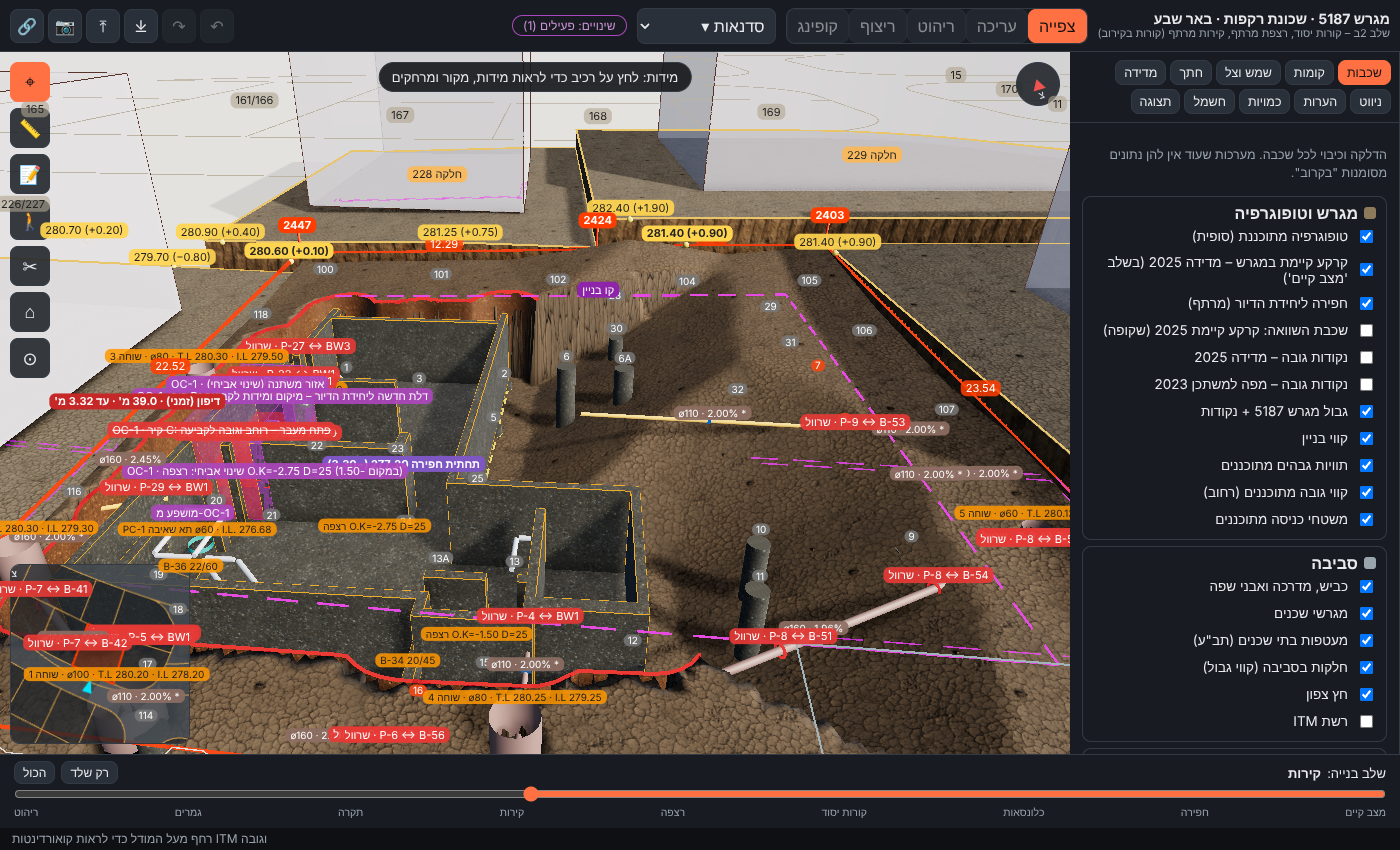
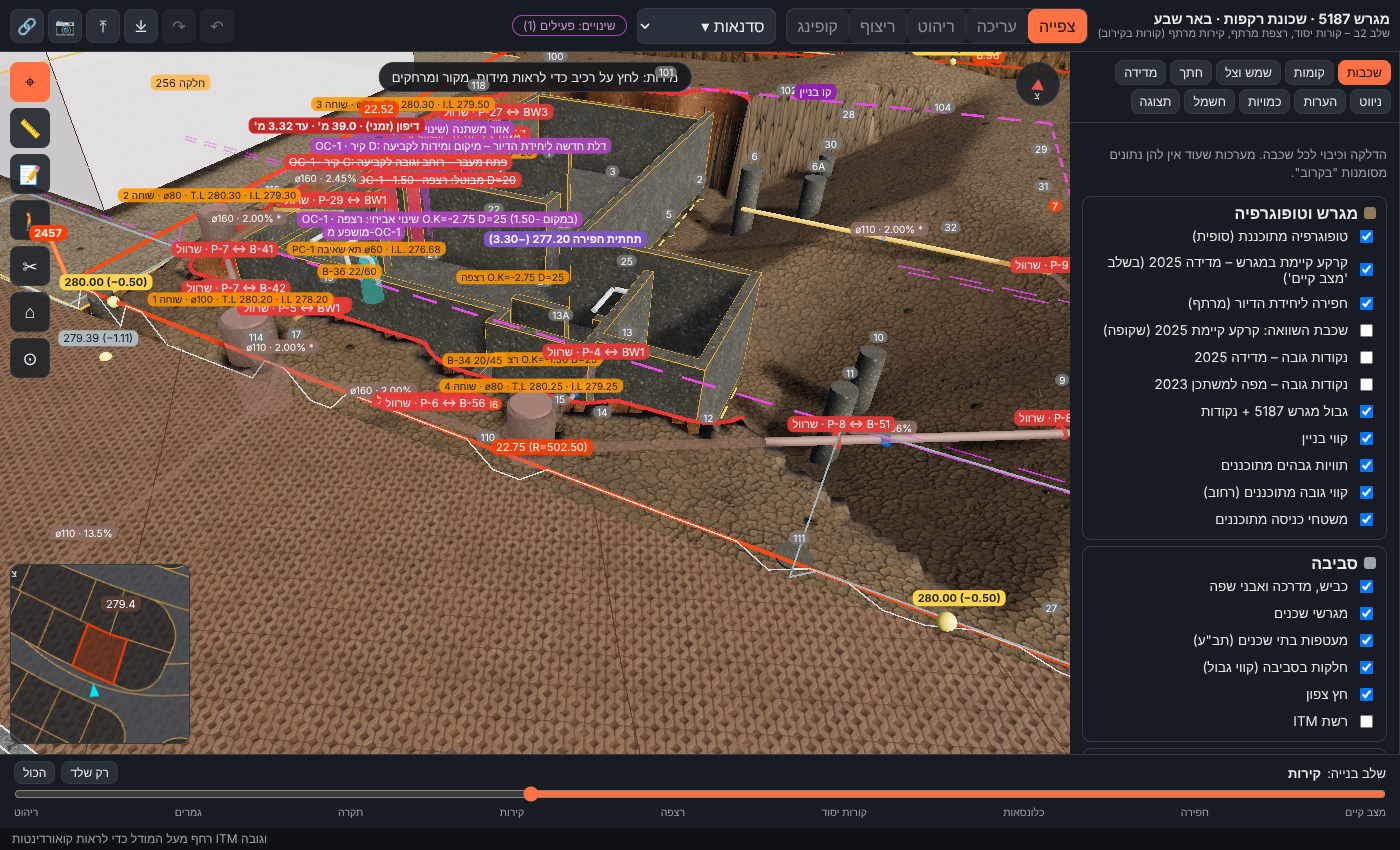
שוחות בטון (גליל + מכסה) וצנרת ביוב עם שיקוף דרך הקרקע; נקודת מבט 'ביוב: שוחות וצנרת'
Claude-Session: https://claude.ai/code/session_012mX9nwtok5Gvb7kjSQTNpc

diff --git a/js/geometry/foundations.js b/js/geometry/foundations.js
@@ -157,13 +157,27 @@ export function buildPlumbingFoundations(ctx) {
   const { data, coords, registry, scene, materials, display } = ctx;
   const P = data.plumbingFoundations; if (!P) return null;
   const D = display.plumbing;
+  // "x-ray" copy drawn on top of the soil (chambers and pipes are underground) – same tags, not pickable
+  const ghost = (g0, geos, pos, color, tags, quat) => {
+    const gg = new THREE.Group();
+    for (const geo of geos) {
+      const gm = new THREE.Mesh(geo, new THREE.MeshBasicMaterial({ color, transparent: true, opacity: D.ghostOpacity, depthTest: false, depthWrite: false }));
+      gm.position.copy(pos); if (quat) gm.quaternion.copy(quat); gm.renderOrder = 6; gm.raycast = () => {}; gg.add(gm);
+    }
+    scene.add(gg); registry.add(gg, { ...tags, stageTo: 'ceiling' }, { name: 'שיקוף', kind: 'ghost', pickable: false });
+  };
   for (const c of P.chambers) {
     const r = c.diameter_m / 2, h = c.TL - c.IL;
-    const geo = new THREE.CylinderGeometry(r, r, h, D.radialSegments, 1, true);
     const sewer = c.kind === 'sewerManhole';
-    const mat = new THREE.MeshStandardMaterial({ color: sewer ? D.sewerColor : D.chamberColor, roughness: 0.6, side: THREE.DoubleSide });
-    const m = new THREE.Mesh(geo, mat); m.position.copy(coords.toLocal(c.E, c.N, (c.TL + c.IL) / 2)); m.castShadow = true;
-    const g = new THREE.Group(); g.add(m);
+    // concrete chamber: closed cylinder of the drawn diameter from I.L to T.L, with a cover disk at T.L
+    const geo = new THREE.CylinderGeometry(r, r, h, D.radialSegments, 1, false);
+    const uv = geo.attributes.uv; for (let i = 0; i < uv.count; i++) uv.setXY(i, uv.getX(i) * 2 * Math.PI * r, uv.getY(i) * h);
+    const m = new THREE.Mesh(geo, materials.get('concrete')); m.position.copy(coords.toLocal(c.E, c.N, (c.TL + c.IL) / 2)); m.castShadow = m.receiveShadow = true;
+    const cover = new THREE.Mesh(new THREE.CylinderGeometry(r * D.coverRatio, r * D.coverRatio, D.coverThickness_m, D.radialSegments),
+      new THREE.MeshStandardMaterial({ color: sewer ? D.sewerColor : D.chamberColor, roughness: 0.5, metalness: 0.3 }));
+    cover.position.copy(coords.toLocal(c.E, c.N, c.TL + D.coverThickness_m / 2));
+    const g = new THREE.Group(); g.add(m, cover);
+    ghost(g, [m.geometry], m.position, sewer ? D.sewerColor : D.chamberColor, sewer ? { floor: 'site', system: 'sewage', stage: 'walls', layer: 'sewageManholes' } : { floor: 'unit', system: 'drainage', stage: 'excavation', layer: 'drainChambers' });
     const d = document.createElement('div'); d.className = 'lbl beam';
     d.textContent = sewer ? `שוחה ${c.number} · ø${Math.round(c.diameter_m * 100)} · T.L ${c.TL.toFixed(2)} · I.L ${c.IL.toFixed(2)}` : `${c.id} תא שאיבה ø${Math.round(c.diameter_m * 100)} · I.L. ${c.IL.toFixed(2)}`;
     const o = new CSS2DObject(d); o.position.copy(coords.toLocal(c.E, c.N, c.TL + 0.4)); g.add(o);
@@ -194,6 +208,7 @@ export function buildPlumbingFoundations(ctx) {
     const m = new THREE.Mesh(geo, new THREE.MeshStandardMaterial({ color: col, roughness: 0.5 }));
     m.position.copy(a); m.lookAt(b); m.castShadow = true;
     const g = new THREE.Group(); g.add(m);
+    ghost(g, [geo], a, col, { floor: 'site', system: 'sewage', stage: 'walls', layer: 'sewagePipes' }, m.quaternion);
     if (q.ILfrom != null) {   // flow arrow at mid-length, pointing downstream
       const cone = new THREE.Mesh(new THREE.ConeGeometry(r * 1.8, r * 4, 12), new THREE.MeshBasicMaterial({ color: D.flowArrowColor }));
       cone.position.copy(a.clone().lerp(b, 0.5)); cone.quaternion.setFromUnitVectors(new THREE.Vector3(0, 1, 0), dir.clone().normalize()); g.add(cone);

diff --git a/js/tools/navigation.js b/js/tools/navigation.js
@@ -22,6 +22,7 @@ export class Navigation {
       { id: 'top', label: 'מבט על (צפון למעלה)', target: c, offset: new THREE.Vector3(0, 70, 0.01) },
       { id: 'street', label: 'מהרחוב (דרום-מערב)', target: c, offset: new THREE.Vector3(-14, 4, 26) },
       { id: 'foundations', label: 'יסודות ומרתף', target: c.clone().add(new THREE.Vector3(2, -2, -1)), offset: new THREE.Vector3(0, 15, 23), stage: 'walls' },
+      { id: 'sewer', label: 'ביוב: שוחות וצנרת', target: c.clone().add(new THREE.Vector3(-4, -1.5, 8)), offset: new THREE.Vector3(1, 8.5, 11), stage: 'walls' },
       { id: 'pit', label: 'חפירה וכלונסאות', target: c.clone().add(new THREE.Vector3(0, -3, 0)), offset: new THREE.Vector3(-16, 13, 18), stage: 'piles' },
     ];
     for (const [name, p] of Object.entries(data.plot.points)) {
